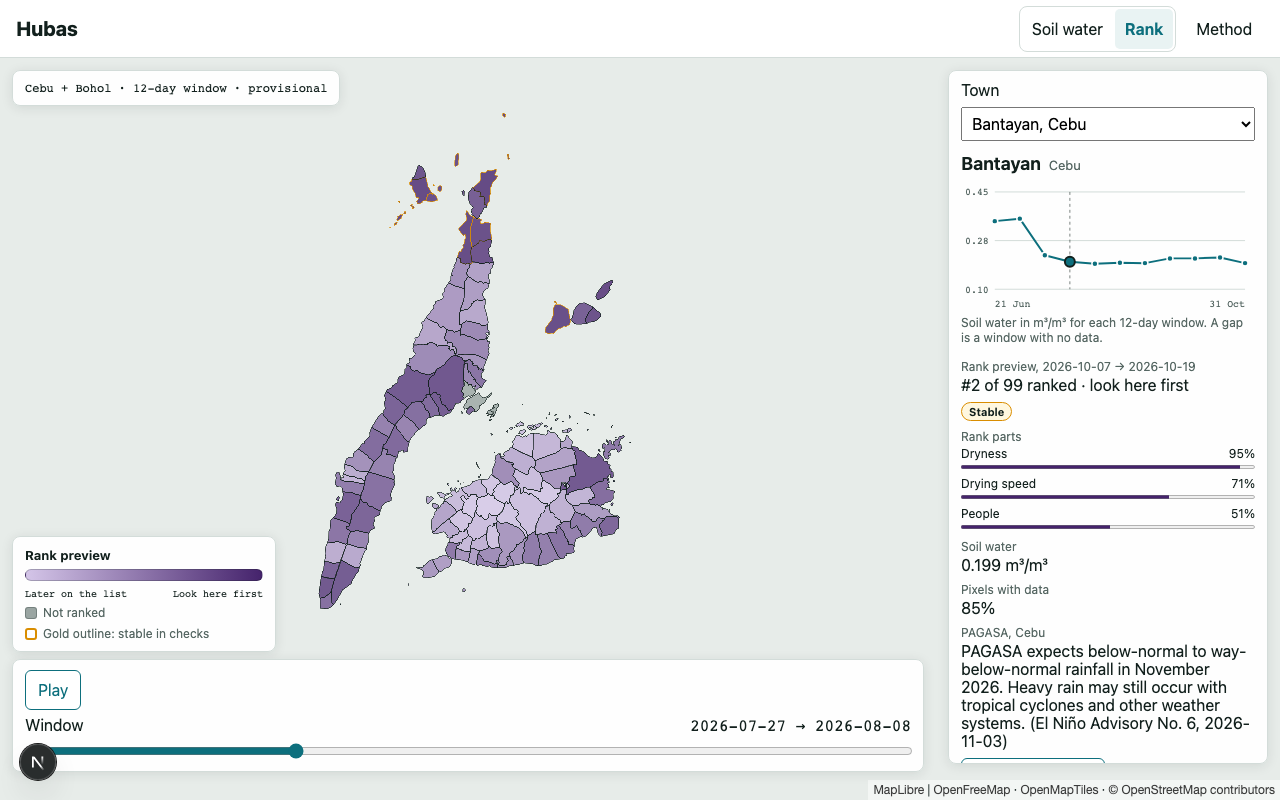
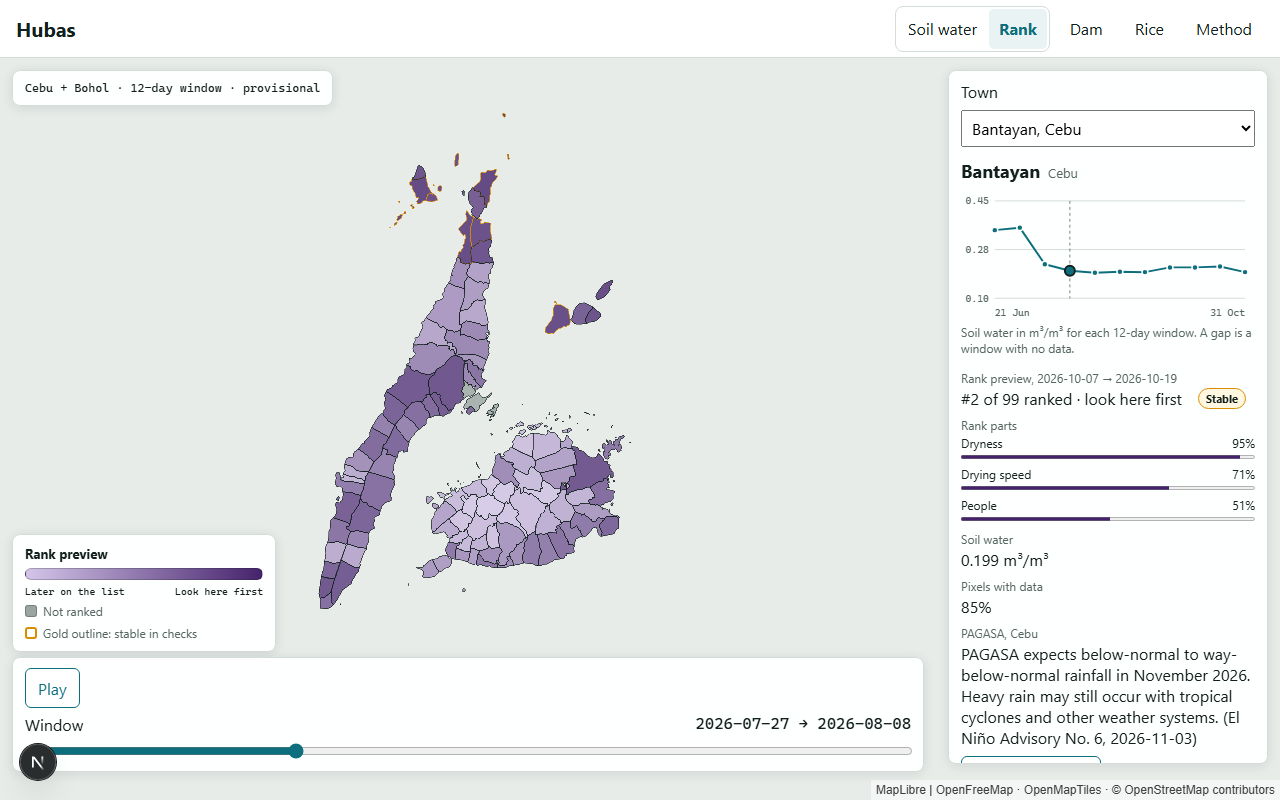
fix: limit the first-check cue to the top 10 and open soil water from links [sc-126]
"look here first" showed for every ranked town, even #84 of 99, against the legend's
"Later on the list". It now uses the pipeline's top-10 cut. Links named "Soil water"
on other pages carried mode=rank and opened the Rank view. The top bar scrolls on
narrow phones instead of the page now that it has Dam and Rice too.

diff --git a/app/e2e/map-selection.spec.ts b/app/e2e/map-selection.spec.ts
@@ -36,18 +36,18 @@ for (const width of [1280, 375]) {
     await navigation.getByRole("button", { name: "Rank" }).click();
     await expect(page).toHaveURL(/mode=rank$/);
     await selection("rank");
-    await navigation.getByRole("link", { name: "Method" }).click();
-    await expect(page.getByRole("heading", { name: "Measured, not forecast" })).toBeVisible();
     await page.reload();
-    await page.getByRole("link", { name: "Soil water", exact: true }).click();
     await selection("rank");
+    // Links from other pages are named for the Soil water view, so they open it.
     for (const returnLink of ["Back to soil water", "Soil water", "Hubas home"]) {
       await navigation.getByRole("link", { name: "Method" }).click();
       await expect(page.getByRole("heading", { name: "Measured, not forecast" })).toBeVisible();
       await page.reload();
       await page.getByRole("link", { name: returnLink, exact: true }).click();
-      await selection("rank");
+      await selection("soil");
     }
+    await navigation.getByRole("button", { name: "Rank" }).click();
+    await expect(page).toHaveURL(/mode=rank/);
     const sharedUrl = page.url();
     await page.goto("/method");
     await page.goto(sharedUrl);

diff --git a/app/src/app/globals.css b/app/src/app/globals.css
@@ -173,9 +173,6 @@ button:focus-visible { outline: 3px solid var(--accent); outline-offset: 3px; }
 .season-sound p { margin: 6px 0 0; font-size: 12px; color: var(--muted); }
 
 @media (max-width: 640px) {
-  .topbar { gap: 8px; padding: 0 12px; }
-  .topbar nav { gap: 4px; }
-  .topbar nav a { padding: 8px; }
   .map-mode button { padding: 5px 7px; }
 
   main {
@@ -239,6 +236,8 @@ button:focus-visible { outline: 3px solid var(--accent); outline-offset: 3px; }
 .dam-picker button[aria-pressed="true"] { font-weight: 650; }
 @media (max-width: 640px) {
   .topbar { gap: 8px; padding: 0 12px; }
-  .topbar nav { gap: 0; }
+  .brand { flex-shrink: 0; }
+  /* ponytail: under ~360 px the five nav items do not fit; the row scrolls instead of the page. */
+  .topbar nav { gap: 0; min-width: 0; overflow-x: auto; scrollbar-width: none; }
   .topbar nav a { padding: 10px 8px; }
 }

diff --git a/app/src/app/Explorer.tsx b/app/src/app/Explorer.tsx
@@ -186,8 +186,8 @@ export default function Explorer({ manifest, lgus, outlooks }: { manifest: Manif
             <dt>Rank preview{rankWin && `, ${rankWin.start} → ${rankWin.end}`}</dt>
             <dd className="rank-value" data-testid="rank">
               {lgu.rank ? <>
-                <span>#{lgu.rank.position} of {lgu.rank.of} ranked · look here first</span>
-                {lgu.rank.stable && <><span> </span><span className="stable-mark" aria-label="Stable, stayed in the top 10 in every check">Stable</span></>}
+                <span>#{lgu.rank.position} of {lgu.rank.of} ranked{lgu.rank.position <= 10 && " · look here first"}</span>
+                {lgu.rank.stable && <><span> </span><span className="stable-mark" title="Stayed in the top 10 in every check">Stable</span></>}
               </> : "Not ranked"}
             </dd>
             {lgu.rank && <>

diff --git a/app/e2e/smoke.spec.ts b/app/e2e/smoke.spec.ts
@@ -11,7 +11,7 @@ const BOGO = "0702211000";
 const CARMEN_BOHOL = "0701212000"; // Cebu has a Carmen too
 
 // The panel text for a town, from the data and not from fixed values: the pipeline changes the values.
-const rankText = (lgu: Lgu) => (lgu.rank ? `#${lgu.rank.position} of ${lgu.rank.of} ranked · look here first${lgu.rank.stable ? " Stable" : ""}` : "Not ranked");
+const rankText = (lgu: Lgu) => (lgu.rank ? `#${lgu.rank.position} of ${lgu.rank.of} ranked${lgu.rank.position <= 10 ? " · look here first" : ""}${lgu.rank.stable ? " Stable" : ""}` : "Not ranked");
 const moistureText = (lgu: Lgu, i: number) => (lgu.soilMoisture[i] == null ? "No data" : `${lgu.soilMoisture[i]!.toFixed(3)} m³/m³`);
 
 // Screen position of a point inside the City of Bogo, from the map's own projection.

diff --git a/app/e2e/rank-map.spec.ts b/app/e2e/rank-map.spec.ts
@@ -55,6 +55,8 @@ test("rank preview colors, parts, and missing soil water are clear", async ({ pa
   await page.getByLabel("Window").fill("3");
   await expect(page.getByTestId("moisture")).toHaveText("No data");
   await expect(page.getByTestId("rank")).toContainText(`#${tubigon.rank!.position} of ${tubigon.rank!.of} ranked`);
+  expect(tubigon.rank!.position).toBeGreaterThan(10);
+  await expect(page.getByTestId("rank")).not.toContainText("look here first");
   await page.getByRole("button", { name: "Soil water" }).click();
   await expect(page.getByRole("button", { name: "Soil water" })).toHaveAttribute("aria-pressed", "true");
   await expect(page.getByTestId("map-legend")).toContainText("Gray: less than half the pixels have data");

diff --git a/app/src/app/MapLink.tsx b/app/src/app/MapLink.tsx
@@ -6,7 +6,7 @@ import { useMapSearch } from "./map-selection";
 export default function MapLink({ href, ...props }: ComponentProps<"a"> & { href: string }) {
   const search = new URLSearchParams(useMapSearch());
   const selection = new URLSearchParams();
-  for (const key of ["town", "window", "mode"]) {
+  for (const key of ["town", "window"]) {
     const value = search.get(key);
     if (value) selection.set(key, value);
   }
